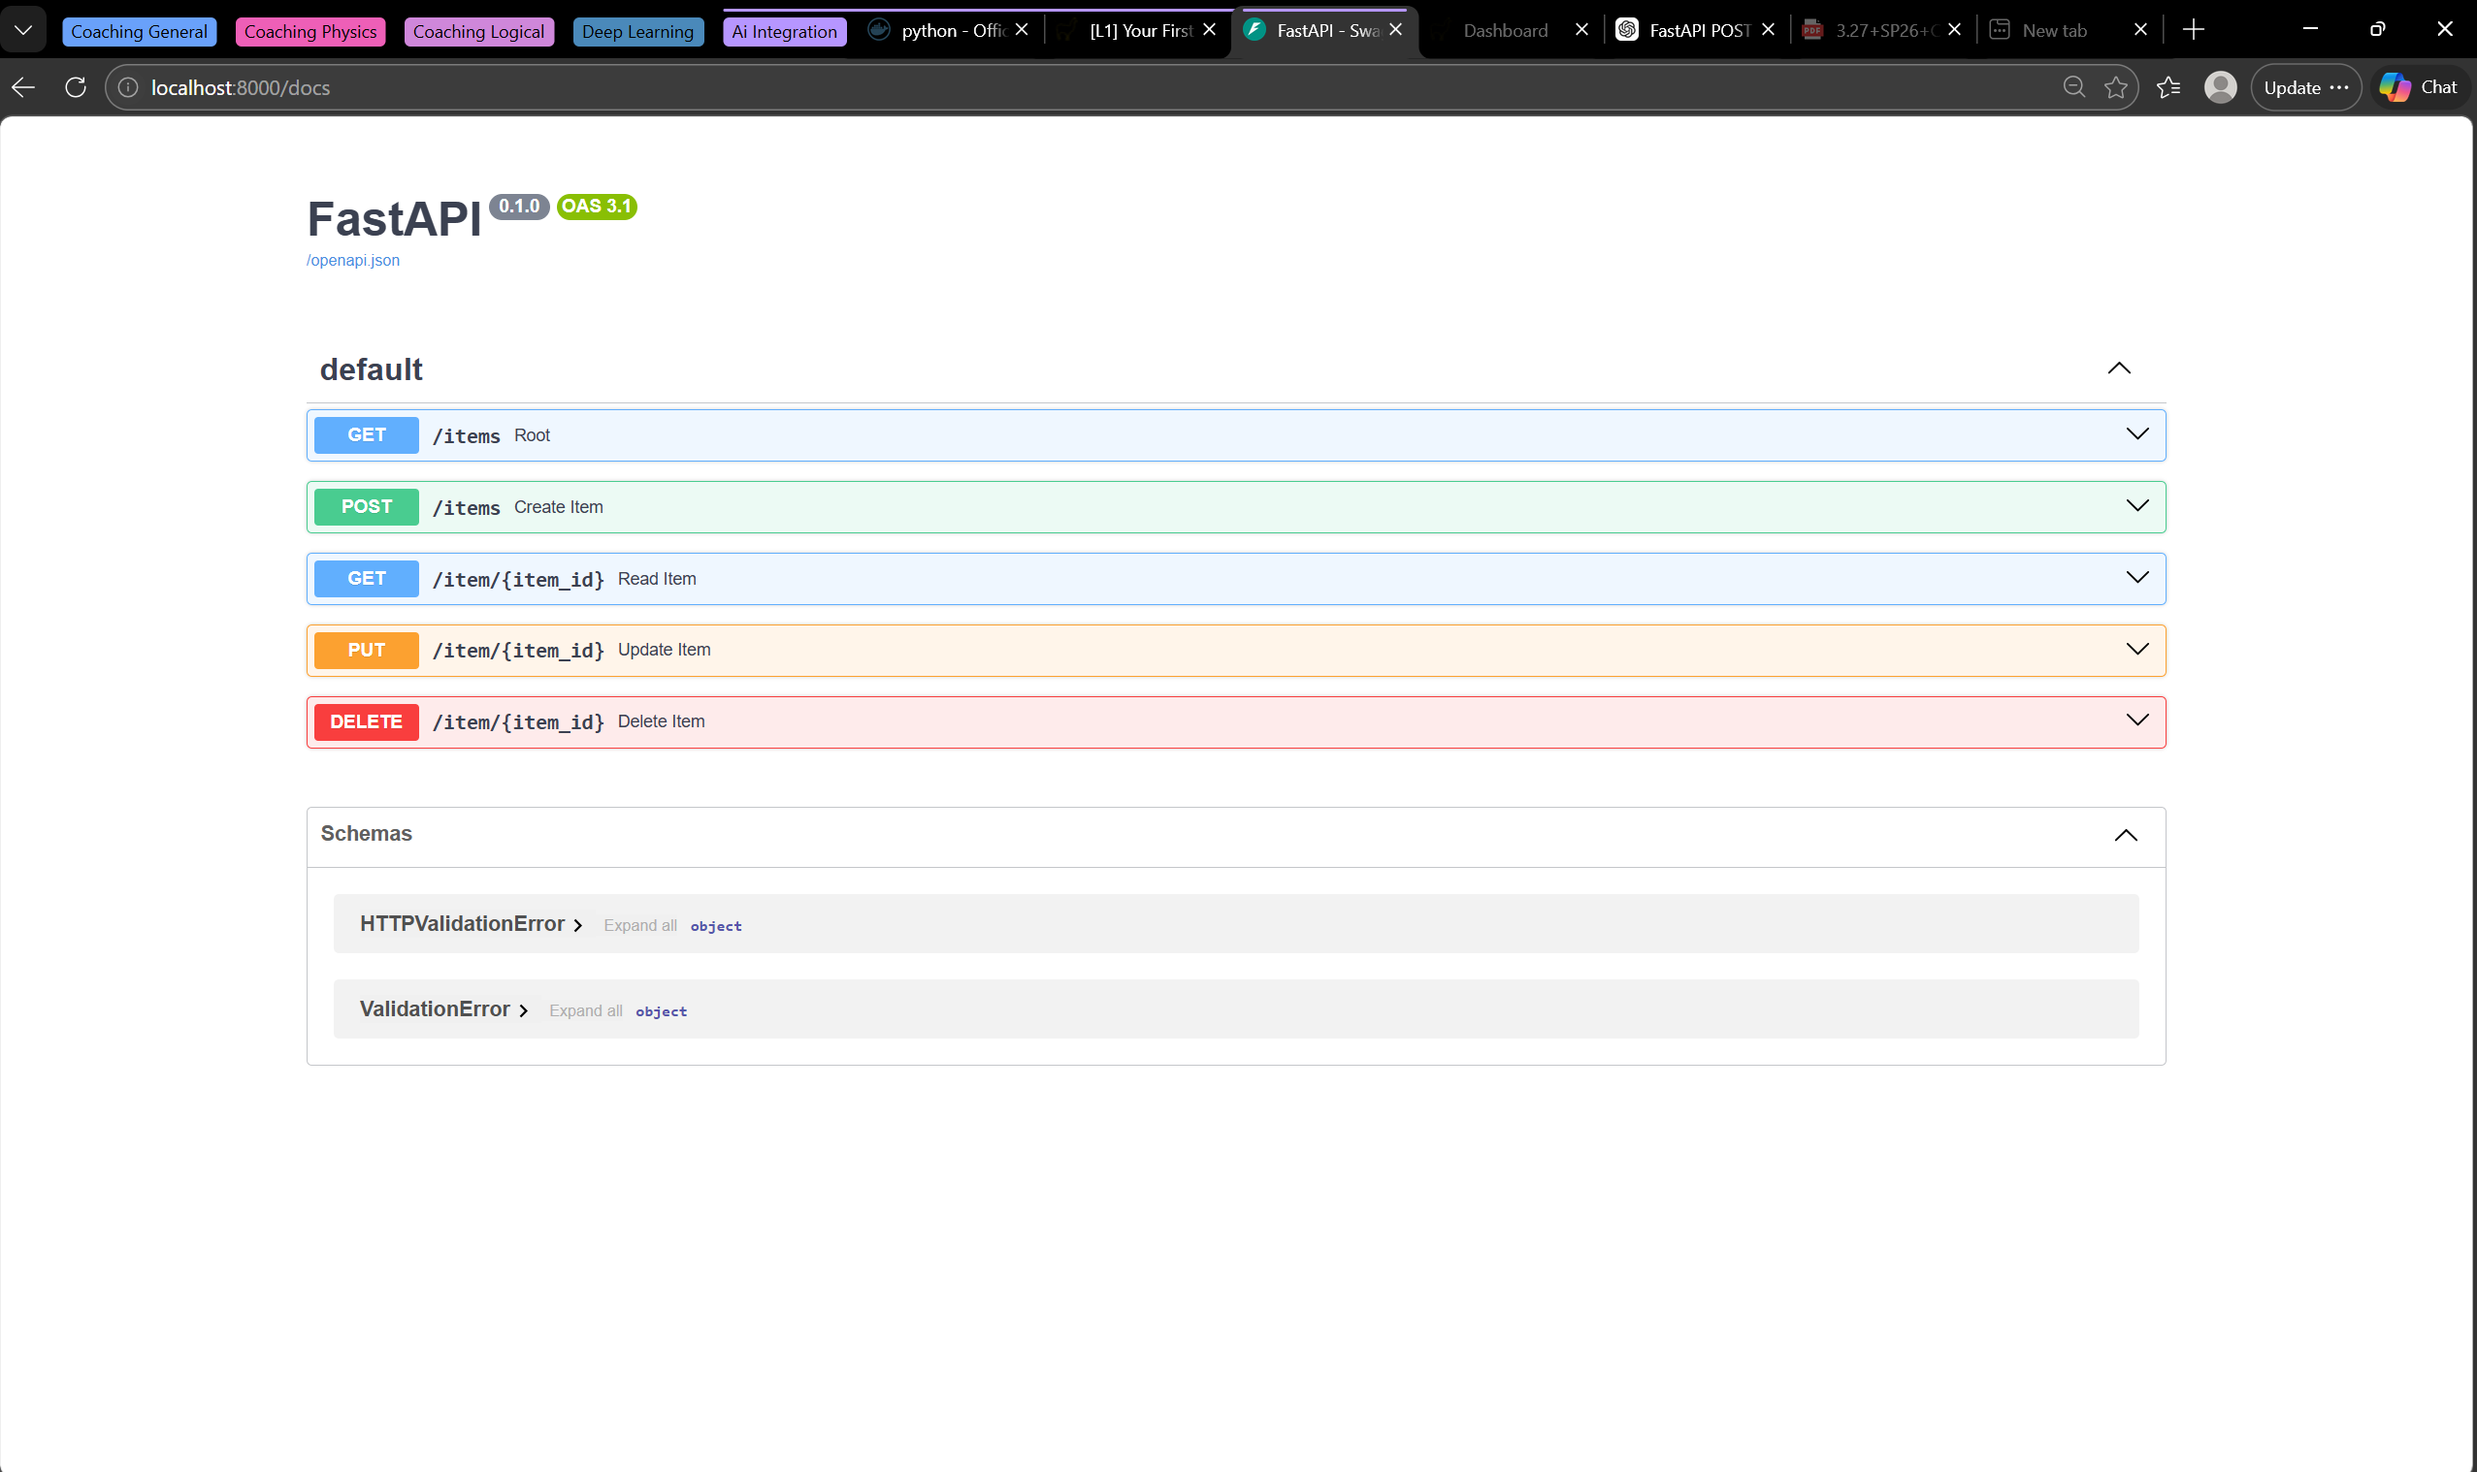
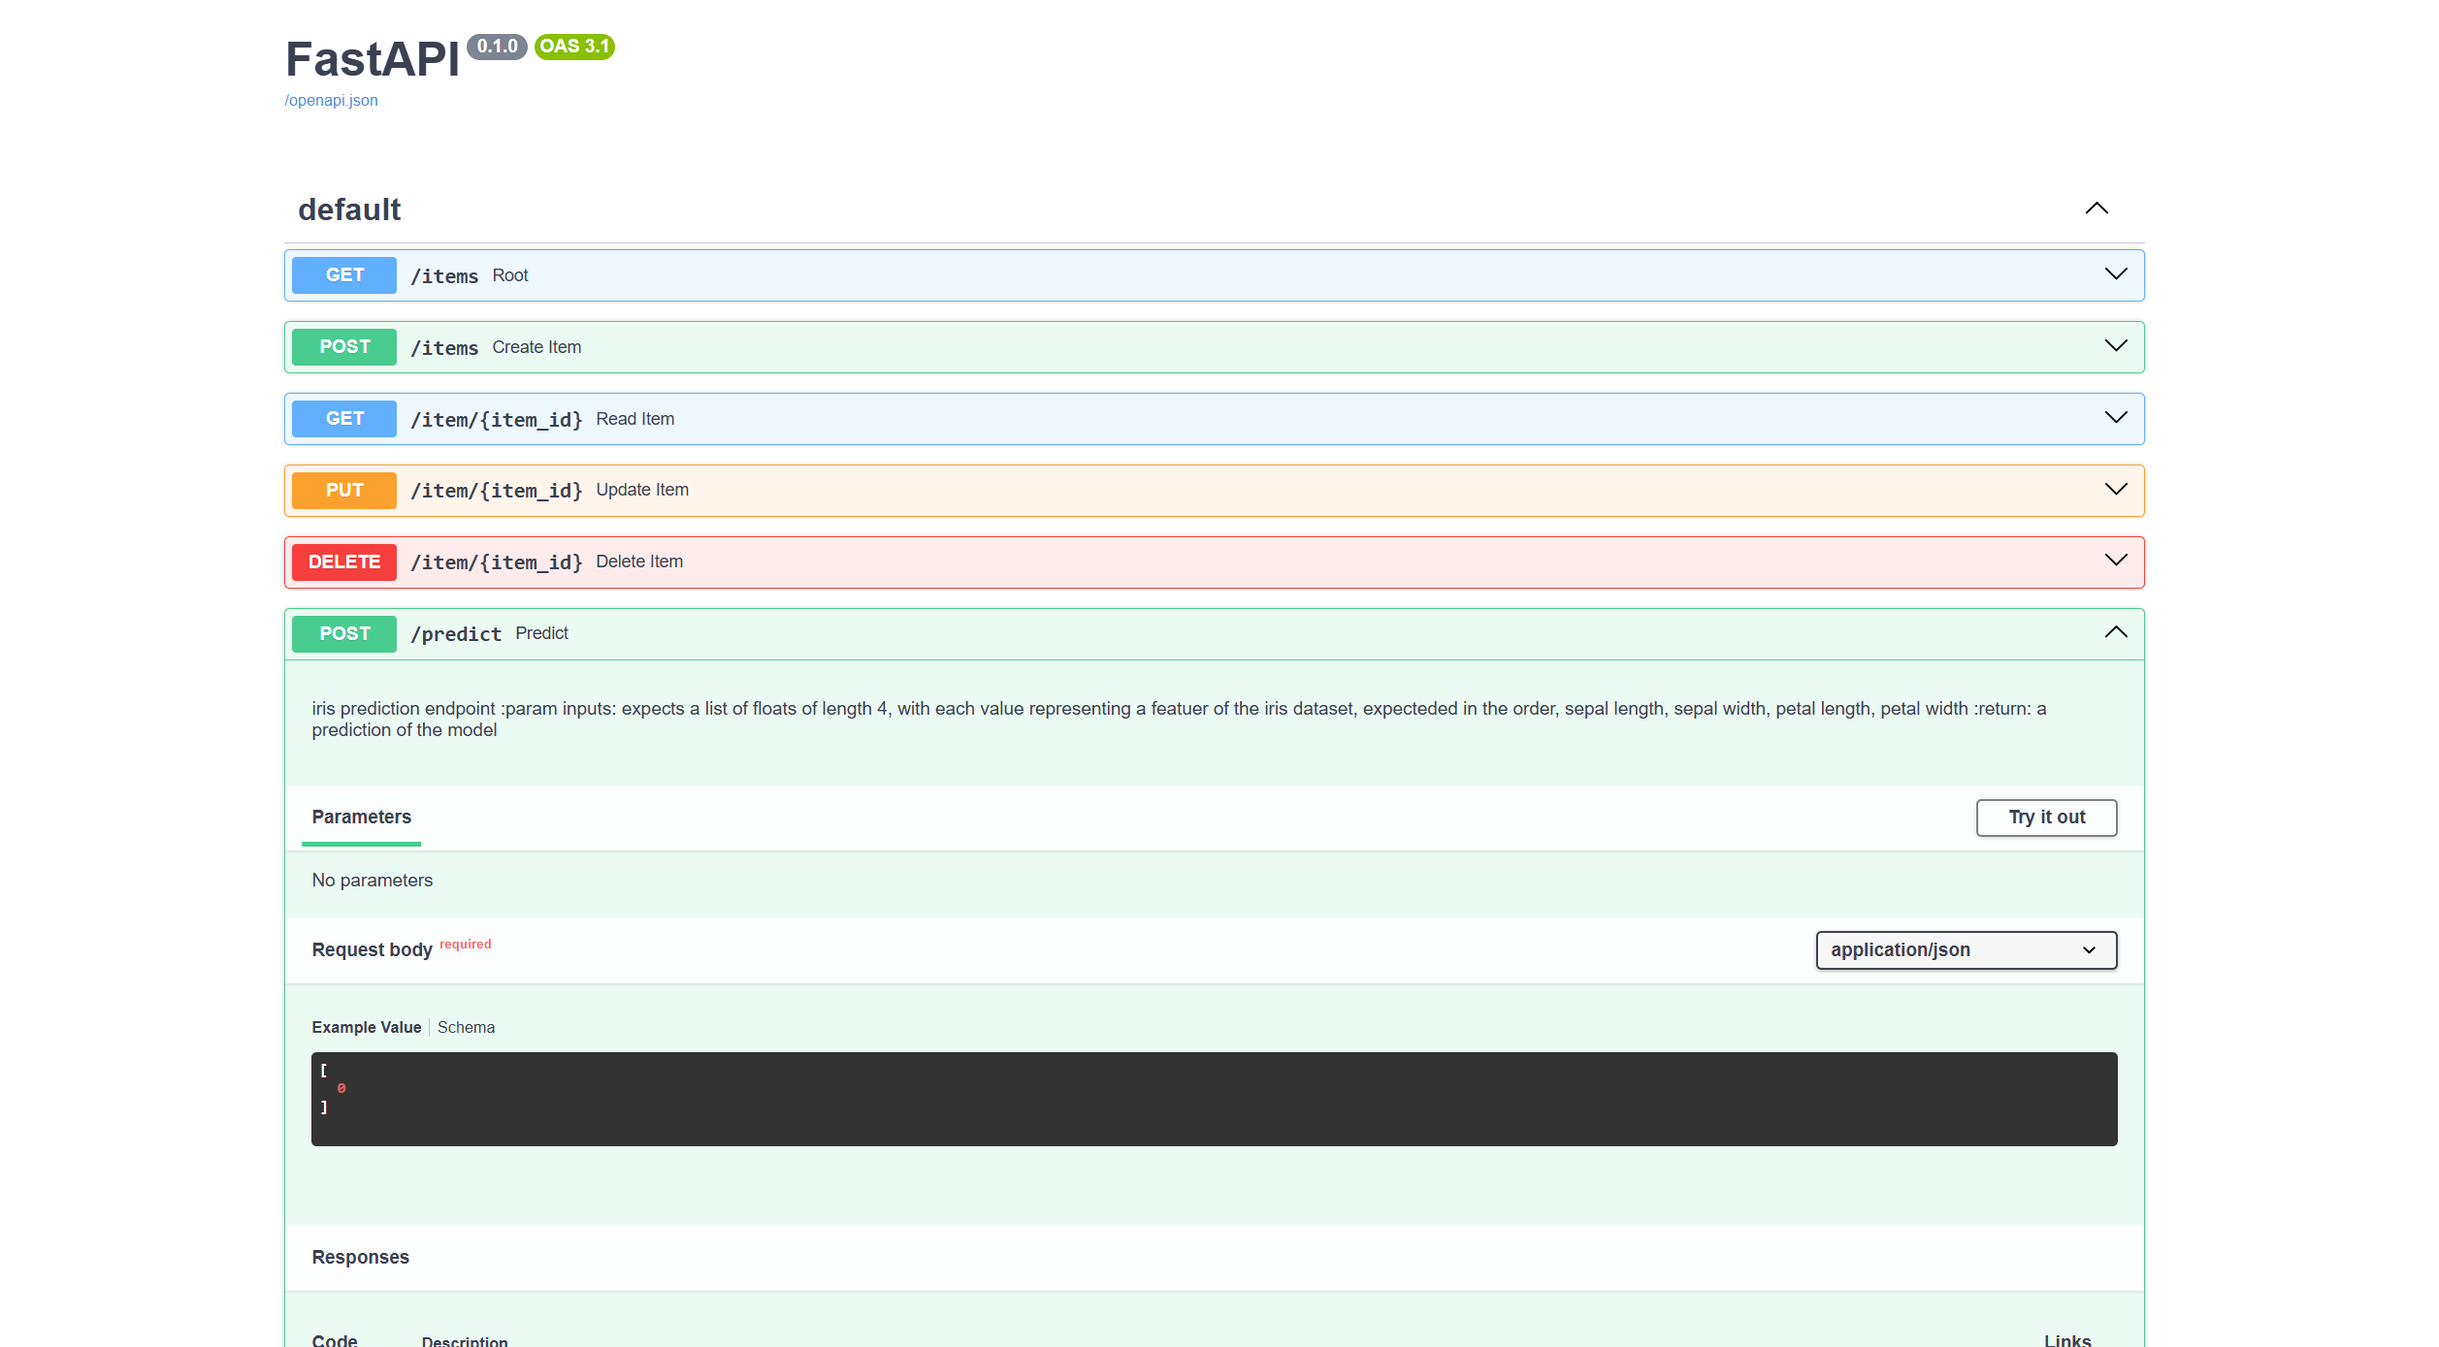
added example images

diff --git a/README.md b/README.md
@@ -18,4 +18,6 @@ the API is running on localhost:8000,
 
 the POST route /predict will acess the model and get a prediction from it
 
-/docs route will acess the swagger documentation and lets you call the /predict route and veiw my documentation
+/docs route will acess the swagger documentation and lets you call the /predict route and view my documentation
+
+the frontend is running on localhost:3000, it has feilds for inputing the data for the model and a button to send them to the backend for a prediction
